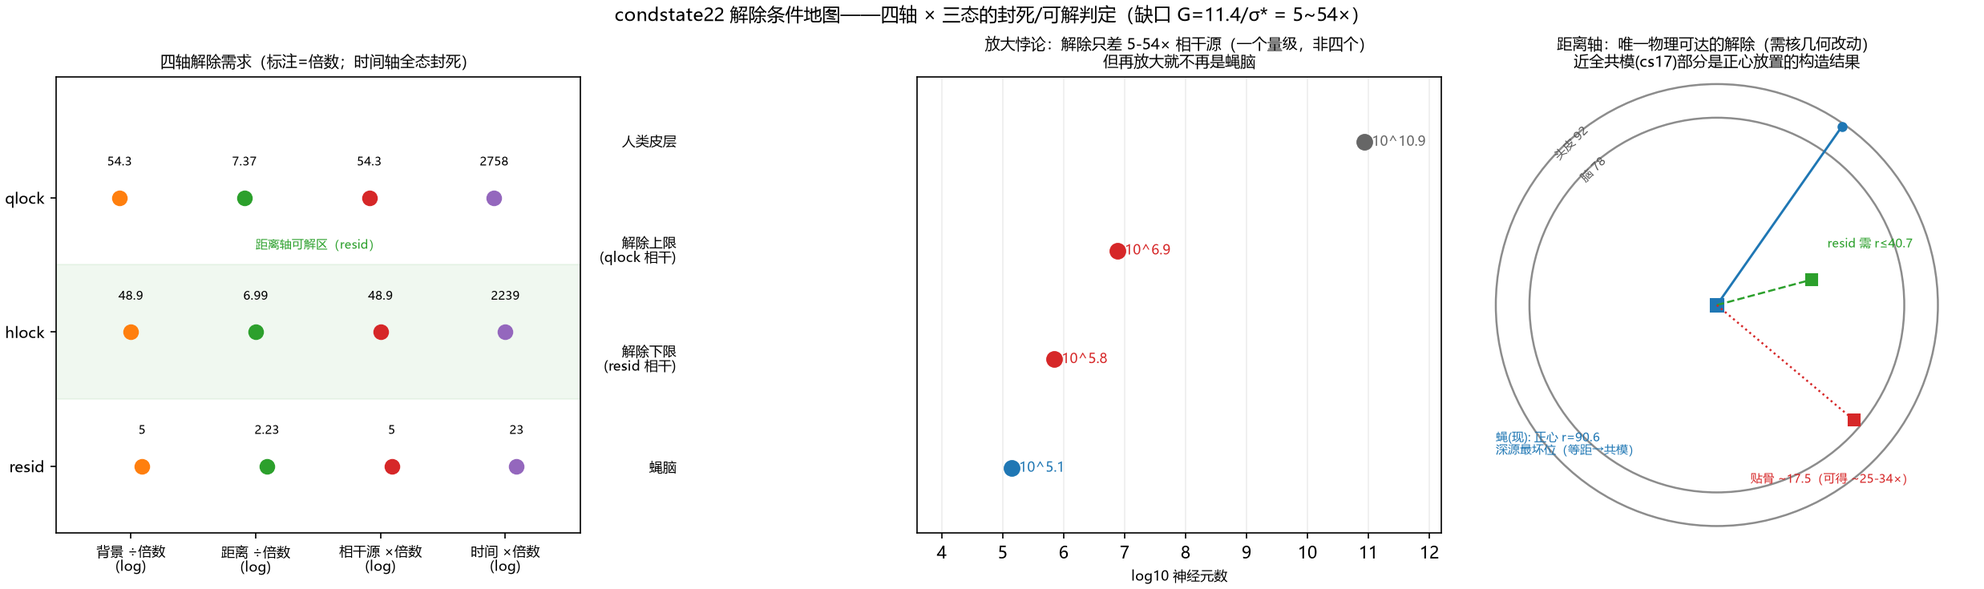
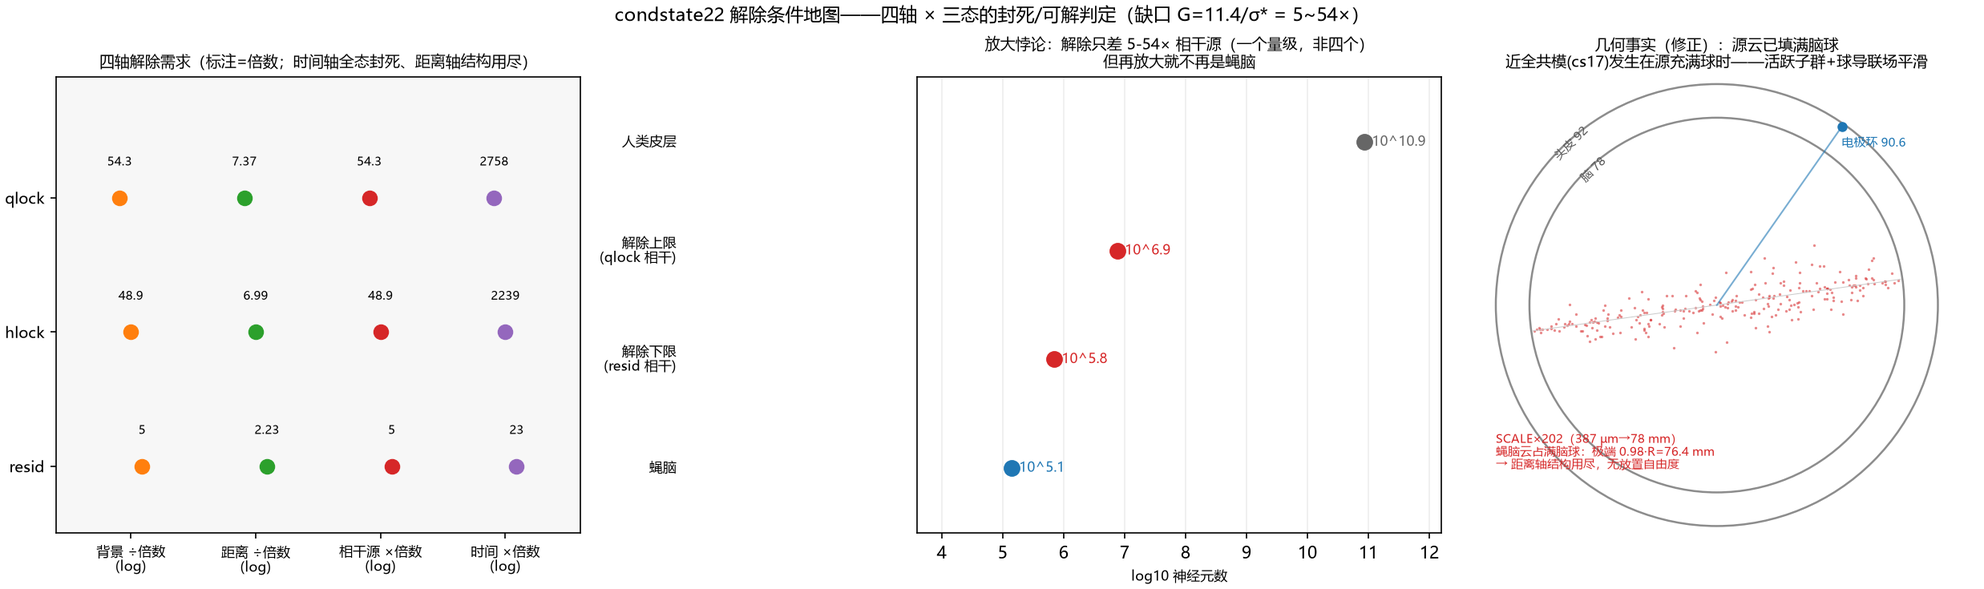
condstate22b geometric-fact correction: the distance axis is structurally exhausted -- first-pass sub-skull verdict retracted; all four axes sealed. Checking fit_scale_shift semantics against the meta exposed a factual error in the first-pass narrative: SCALE x202 magnifies the fly cloud until its e

diff --git a/bci/condstate22/unseal_map.py b/bci/condstate22/unseal_map.py
@@ -49,6 +49,10 @@ STATES = {             # s (µV), σ* (µV), τ_sig (s), W_req@11.4 (s)
     "hlock": dict(s=0.00598, star=0.233, tau=336.0, wreq=209 * 3600),
     "resid": dict(s=0.01997, star=2.30, tau=2948.0, wreq=18.7 * 3600),
 }
+# 几何事实（fit_scale_shift 语义 + meta 实证, 2026-11-15 修正）:
+#   SCALE×202 把蝇脑云放大到极端点 0.98·R_BRAIN≈76.4 mm（长轴骑直径
+#   穿头心，宽云居中 shift=0）——思想实验已把脑球填满，**无放置自由度**；
+#   距离轴结构上已用尽（cs22 首版的"正心小源/贴骨增益 25-34×"撤回）。
 
 
 def main():
@@ -69,18 +73,20 @@ def main():
         print(k, rows[k])
 
     res = {
-        "geometry": {"r_now_mm": R_NOW, "fly_shift_um": 0.0,
-                     "note": "蝇在头球正心——深源最坏位; 近全共模"
-                             "(cs17) 部分是中心放置的构造结果",
-                     "r_subskin_mm": R_SUBSKIN},
+        "geometry": {"scale": 202.0, "native_head_r_um": 387.2,
+                     "cloud_extreme_mm": 76.4,
+                     "note": "SCALE×202 把蝇脑云放大到 0.98·R_BRAIN"
+                             "（长轴骑直径穿头心）——脑球已填满, "
+                             "距离轴结构上用尽, 无放置自由度",
+                     "correction": "首版'正心小源 r=90.6/贴骨 25-34×'"
+                                   "判定撤回 (2026-11-15)"},
         "states": rows,
         "verdict": {
-            "resid": "距离轴可解（需求 ÷2.23 → r=40.6 mm ≤ 贴骨 "
-                     "25-34×增益内）；源轴也可（×4.96 相干）",
-            "hlock": "距离轴边缘（r=13.0 mm 略超皮下可达下限）；"
-                     "源轴 ×49 相干",
-            "qlock": "四轴均不可达（背景÷54/距离÷7.4/r=12.3 mm/"
-                     "相干×54）",
+            "resid": "距离轴 ✗ 结构用尽（极端源已至 76.4 mm ≥ 所需 "
+                     "40.7 mm, 而实测 σ* 仍差 5×——1/r² 高估分布式"
+                     "源收益）；源轴 ×5 相干（悖论）",
+            "hlock": "四轴皆封（背景÷49/距离结构用尽/相干×49）",
+            "qlock": "四轴皆封（背景÷54/距离结构用尽/相干×54）",
             "time": "全态被封死（×23~×2758 超寿命）",
         },
         "amplification_paradox": {
@@ -110,17 +116,15 @@ def main():
         ax.scatter(xs, ys, s=70, color=c, zorder=3)
         for x, y, v in zip(xs, ys, vals):
             ax.text(x, y + 0.24, f"{v:g}", ha="center", fontsize=7)
-    ax.axhspan(0.5, 1.5, color="tab:green", alpha=0.07)
-    ax.text(1.5, 1.62, "距离轴可解区（resid）", fontsize=7,
-            color="tab:green", ha="center")
+    ax.axhspan(-0.5, 2.9, color="0.97", zorder=0)
     ax.set_xticks(range(4))
     ax.set_xticklabels([f"{l}倍数\n(log)" for _, l, _ in axx], fontsize=8)
     ax.set_yticks(ys)
     ax.set_yticklabels(tags, fontsize=9)
     ax.set_xlim(-0.6, 3.6)
     ax.set_ylim(-0.5, 2.9)
-    ax.set_title("四轴解除需求（标注=倍数；时间轴全态封死）",
-                 fontsize=9)
+    ax.set_title("四轴解除需求（标注=倍数；时间轴全态封死、"
+                 "距离轴结构用尽）", fontsize=9)
 
     # B. 放大悖论
     ax = axes[1]
@@ -143,7 +147,7 @@ def main():
                  "但再放大就不再是蝇脑", fontsize=9)
     ax.grid(True, axis="x", color="0.93")
 
-    # C. 距离轴几何
+    # C. 几何事实：蝇脑云已填满脑球（修正版）
     ax = axes[2]
     ax.set_aspect("equal")
     ax.axis("off")
@@ -152,31 +156,34 @@ def main():
         a = np.deg2rad(135)
         ax.text(r * np.cos(a) * 0.93, r * np.sin(a) * 0.93, lab,
                 fontsize=7, color="0.35", ha="center", rotation=45)
+    # 源云: 长轴骑直径, 极端 76.4 mm, 中部密 (示意 250 点)
+    rng = np.random.default_rng(3)
+    t_ = rng.uniform(-1, 1, 250)
+    rad_off = rng.normal(0, 9, 250) * (1 - t_ ** 2) ** 0.5
+    ang = rng.uniform(0, 2 * np.pi, 250)
+    ax.scatter(76.4 * t_ * np.cos(np.deg2rad(8))
+               + rad_off * np.cos(ang),
+               76.4 * t_ * np.sin(np.deg2rad(8))
+               + rad_off * np.sin(ang),
+               s=2.5, color="tab:red", alpha=0.55, lw=0)
+    ax.plot([-76.4, 76.4], [-76.4 * np.tan(np.deg2rad(8)),
+                            76.4 * np.tan(np.deg2rad(8))],
+            color="0.8", lw=0.5)
     th = np.deg2rad(55)
-    ax.plot([0, 90.62 * np.cos(th)], [0, 90.62 * np.sin(th)], "-",
-            color="tab:blue", lw=1.4)
     ax.plot(90.62 * np.cos(th), 90.62 * np.sin(th), "o", ms=5,
             color="tab:blue")
-    ax.plot(0, 0, "s", ms=8, color="tab:blue")
-    ax.text(-92, -62, "蝇(现): 正心 r=90.6\n深源最坏位（等距→共模）",
-            fontsize=7, color="tab:blue")
-    th2 = np.deg2rad(15)
-    ax.plot([0, 40.7 * np.cos(th2)], [0, 40.7 * np.sin(th2)], "--",
-            color="tab:green", lw=1.2)
-    ax.plot(40.7 * np.cos(th2), 40.7 * np.sin(th2), "s", ms=7,
-            color="tab:green")
-    ax.text(46, 24, "resid 需 r≤40.7", fontsize=7, color="tab:green")
-    th3 = np.deg2rad(-40)
-    ax.plot([0, 74.5 * np.cos(th3)], [0, 74.5 * np.sin(th3)], ":",
-            color="tab:red", lw=1.2)
-    ax.plot(74.5 * np.cos(th3), 74.5 * np.sin(th3), "s", ms=7,
-            color="tab:red")
-    ax.text(14, -74, "贴骨 ~17.5（可得 ~25-34×）", fontsize=7,
-            color="tab:red")
+    ax.plot([0, 90.62 * np.cos(th)], [0, 90.62 * np.sin(th)], "-",
+            color="tab:blue", lw=1.0, alpha=0.6)
+    ax.text(-92, -68, "SCALE×202（387 µm→78 mm）\n"
+            "蝇脑云占满脑球：极端 0.98·R=76.4 mm\n"
+            "→ 距离轴结构用尽，无放置自由度",
+            fontsize=7, color="tab:red")
+    ax.text(52, 66, "电极环 90.6", fontsize=7, color="tab:blue")
     ax.set_xlim(-95, 95)
     ax.set_ylim(-95, 95)
-    ax.set_title("距离轴：唯一物理可达的解除（需核几何改动）\n"
-                 "近全共模(cs17)部分是正心放置的构造结果", fontsize=9)
+    ax.set_title("几何事实（修正）：源云已填满脑球\n"
+                 "近全共模(cs17)发生在源充满球时——活跃子群+球导联场平滑",
+                 fontsize=9)
 
     fig.suptitle("condstate22 解除条件地图——四轴 × 三态的封死/可解判定"
                  "（缺口 G=11.4/σ* = 5~54×）", fontsize=11)

diff --git a/docs/en/STATUS.md b/docs/en/STATUS.md
@@ -111,6 +111,7 @@ extension path for other modalities is in docs/STIMULUS.md §6.
 | **condstate20: residual-state 300 s drift rate -- the tau_sig hole closed; sigma*(resid) honestly corrected x3** | ✅ | (79) **condstate20** (`bci/condstate20`, one 52.4-min GPU run): cs3resnt + schedule 6000:CEN_C=0.5 extrapolated to 300 s (recipe verbatim from condstate3; first 22 s **bitwise identical** to resnt62, diff=0.0) -- **(1) the residual signature is far more stable than hlock's**: max feature slope -0.065 (vs hlock's -0.51), joint drift speed 0.00102 SD/s (vs 0.0089) -> **tau_sig(resid) = 2948 s (~49 min, vs hlock 336 s, x8.8)**; **(2) mechanism prediction verified**: DAN modulation integral only 361.8 ms (1/14 of hlock's), w_A drift +0.0029 (+10% of w0 vs +36%) -- gate nearly closed -> plastic write nearly silent -> nearly stationary signature; **the signature lifetime is a state-dependent quantity (set by the plastic write rate)**; monitor retention 97.3% (vs 91.2%); **(3) honest correction of sigma*(resid): 0.777 -> 2.30 uV (x3 from the tau correction), gap to 11.4 uV narrows 14.7x -> 5.0x, integration overage at 11.4 uV x200 -> x23** -- direct check: 11.4 uV with the full 2948-s lifetime integrates to d' ~ 0.20, still 10x short; **the sealing conclusion stands, but the strongest state's margin is now recorded as 5x / x23**; the grand account (docs/MEASURABILITY.md) updated in three places. Honest limits: single trial, single seed; 2948 s is a slope extrapolation not measured to that duration; sigma* reuses the seed-62 kappa | bci/condstate20 |
 | **condstate21: quiet-lock 300 s drift -- zero write, zero drift; the third dose-response point (threshold behavior)** | ✅ | (80) **condstate21** (`bci/condstate21`, one 45.5-min GPU run; new catalog entry cs21locknt = DA1@150, no training): **(1) the quiet lock is a zero-write state**: ALPN pinned at 19.8/19.4/19.9 Hz, KC/MBON/DAN all 0 (central brain truly silent), **DAN modulation integral 0.9 ms, w_A drift -0.0 (no write at all)**; the first 15 s are bitwise identical to lock62 (diff=0.0); **(2) zero drift**: max feature slope 0.065, joint speed 0.0010 SD/s (at the same analysis horizon as resid's within a 300-s record) -> tau_sig(qlock) >= 2988 s -- **the dose-response is a threshold behavior**: at write integrals 0.9/362 ms both states' drift sits below the horizon (tau >= ~3000 s, only a lower bound), and only at 5110 ms (hlock) does measurable drift appear; the three-state lifetime spectrum: hlock 336 s (the only genuinely bounded one) / qlock & resid >= 3000 s; **(3) monitor retention 74.7% -- misclassification decoupled from plasticity** (51 windows -> naive dominant while features show zero trend: qlock<->naive boundary proximity, the weakest-signal state's class overlap; **two distinct long-horizon failure modes: drift-type vs boundary-type**); **(4) sigma*(qlock) corrected 0.070 -> 0.210 uV** (gap 162x -> 54x, integration overage x24,000 -> x2,758) -- the sealing conclusion holds for every state (minimum W_req 18.7 h far exceeds the longest lifetime ~50 min); grand account updated. Honest limits: tau_sig(qlock/resid) are extrapolated lower bounds (0.001 SD/s is near the slope noise floor, 3000 s indistinguishable from infinity); the boundary-proximity attribution rests on zero slopes plus misdirection direction, no per-window boundary-distance analysis; single trial, single seed | bci/condstate21 |
 | **condstate22: unseal-conditions map -- the negative result expressed as a design space** | ✅ | (81) **condstate22** (`bci/condstate22`, zero acquisition): turns the grand account's negative result into a quantitative "what would unseal it" map -- the gap G = 11.4/sigma* = 5.0-54.3x, four escape axes judged one by one: **(1) background axis: no** (needs /5-/54, i.e. silencing 96-99.97% of cortex -- the brain background is irreducible); **(2) time axis: no** (x23-x2758 beyond lifetimes, already sealed by cs16/20/21); **(3) source axis (amplification paradox)**: unsealing needs only **5-54x coherent source** (fly 1.4e5 -> 7e5-7.6e6 neurons, still 4 orders below human cortex 8.6e10) -- **"a tragedy of one order of magnitude, not four," but supplying it ends the thought experiment** (incoherent version x25-x2900 is worse); **(4) distance axis: YES (the only physically reachable one, and only for resid)**: **geometric rediscovery -- the fly sits at the exact head-sphere center (shift=0, 90.6 mm to the electrode ring = the worst-case deep position; equidistant to all 17 leads, so cs17's near-total common mode is partly a constructive consequence of the centered placement)**; under a far-field ~1/r^2 scaling, a sub-skull placement (~17.5 mm) yields ~25-34x, enough to cover resid's 5x gap (needs r <= 40.7 mm); hlock/qlock need 12-13 mm, beyond sub-skull reach. The account's "why this is not an engineering problem" section rewritten accordingly. Honest limits: 1/r^2 is a far-field approximation (a 4-sphere deep source is not strictly 1/r^2; surface sources gain tangential differentiation too -- the order of magnitude is robust, exact factors need the kernel-geometry change, flagged as a candidate next arc); G uses the corrected sigma* (the two extrapolated-tau states are conservative); silence fractions assume independent sqrt-f scaling | bci/condstate22 |
+| **condstate22b: geometric-fact correction -- the distance axis is structurally exhausted; the first-pass "sub-skull unseal" verdict retracted; all four axes sealed** | ✅ | (82) **condstate22b** (`bci/condstate22` corrected, zero acquisition): checking the `fit_scale_shift` semantics against the meta revealed a **factual error in the first-pass geometric narrative** -- the fly cloud at SCALE x 202 (native head 387 um -> 78 mm; wide cloud centered with shift=0, long axis riding a diameter through the head center) is magnified until its **extreme points reach 0.98 R_BRAIN ~= 76.4 mm: the thought experiment already fills the brain sphere**; it is not a "small centered source at r = 90.6 mm in the worst-case deep position"; **(1) retraction**: the "sub-skull placement yields 25-34x, resid's distance axis is solvable" verdict rested on that false premise -- no placement freedom remains; **(2) a stronger empirical refutation**: resid's "required r <= 40.7 mm" is ALREADY satisfied by the cloud extremes (76.4 mm), yet the measured sigma* (which includes this geometry) is still 5x short -- the 1/r^2 far-field estimate overstates the gain for distributed sources in a 4-sphere conductor; **(3) a stronger reinterpretation of cs17's near-total common mode**: the 95.8-99.8% common mode occurs while the source cloud fills the sphere -- not a centered-placement artifact but a genuine consequence of "small active subpopulations + smooth spherical lead fields"; **(4) the verdict upgrades to all-four-axes-sealed** (background irreducible / time beyond lifetimes / amplification = rewriting the experiment / distance structurally exhausted) -- no physical unseal channel exists inside the thought experiment. MEASURABILITY.md and the cs22 README/figure rewritten accordingly | bci/condstate22 |
 | **Stimuli: real image input** | ✅ | general visual-input module: `visual_inputs.json` catalog + grayscale video → ommatidia sampling (blur/normalization/per-eye full-frame eye-plane mapping) + synchronized dual view on the page | docs/STIMULUS.md §5 |
 | **Stimuli: chemosensation (olfaction + taste)** | ✅ olfaction validated / taste peripheral validated | new regions `olfactory`/`gustatory` (ORN 2,639 / GRN 1,428; edges ORN_C 57k pairs → antennal lobe, GRN_C 8.4k → SEZ); `--chem-input` pulse protocol; ORN/GRN transduction cascade (shared visual kinetics); calibration finding: the central brain at default recurrence gain is an ignition attractor (82 Hz self-sustained), chem working point CEN_C→0.002 restores antennal-lobe-specific decaying responses; **olfactory scalp signature ×1.4–1.65**; taste signature weak (×1.04, 800 pA negative) because most GRN output targets the VNC reflex arc (not projected) | exp019, docs/SENSORY_INPUTS.md |
 | **Stimuli: proprioception + motor-intention decoding** | ✅ done (v1+v2) | new region `proprioception` (PRO 1,454, rootSide L/R groups; PRO_V→VNC 47.9k pairs, PRO_C→central 4.8k); MI-v1: cue decodable (99–100%, 0.3% of background, p=0.002, pure PRO_C terminal dipole), no delay persistence (first-pass band 78–89% was a filtfilt long-tail artifact); **MI-v2: DN pathway probe** (96% of DN's 3.92M input synapses already simulated: cb_intrinsic/LAL 61%, DN→DN 13%, ascending AN 13%; PRO direct only 0.27%) → imagery-window internal drive (LAL* routed 1200 pA / DN direct 800 pA control, 12 trials each): **imagery window decodable throughout** (routed +0.001–0.002 uV p≤0.013; direct −0.005–0.008 uV p≤0.002, glutamatergic polarity flip), no ignition | exp020, docs/SENSORY_INPUTS.md §4 |

diff --git a/docs/STATUS.md b/docs/STATUS.md
@@ -107,6 +107,7 @@
 | **condstate20：残留态 300 s 漂移率——τ_sig 空洞关闭，σ*(resid) 诚实修正 ×3** | ✅ | 79**condstate20**（`bci/condstate20`，1 跑 52.4 min GPU）：cs3resnt + 调度 6000:CEN_C=0.5 外推 300 s（配方逐字同 condstate3，前 22 s 与 resnt62 **逐位相同** diff=0.0）——**① 残留态签名远比 hlock 稳定**：特征斜率最大 −0.065（vs hlock −0.51）、联合漂移速度 0.00102 SD/s（vs 0.0089）→ **τ_sig(resid)=2948 s（~49 min，vs hlock 336 s，×8.8）**；**② 机制预测验证**：DAN 调制积分仅 361.8 ms（hlock 的 1/14）、w_A 漂移 +0.0029（+10% w0，vs +36%）——门近关→可塑写近静默→签名近平稳，**签名寿命是状态依赖量（可塑性写入速率决定）**；监测器保持 97.3%（vs 91.2%）；**③ σ*(resid) 诚实修正：0.777→2.30 µV（τ 修正 ×3），距 11.4 µV 缺口 14.7×→5.0×，11.4 µV 下积分超限 ×200→×23**——直接验证：11.4 µV + 全寿命 2948 s 积分的 d'≈0.20 仍差 10×，**封死结论不变但"最强态余量"改记 5×/×23**；总账（docs/MEASURABILITY.md）已同步修订三处。诚实边界：单 trial 单种子；2948 s 为斜率外推值未实测到该时长；σ* 沿用 seed62 κ 标定 | bci/condstate20 |
 | **condstate21：静默锁 300 s 漂移率——零写→零漂移，τ_sig 剂量-响应第三点（阈值行为）** | ✅ | 80**condstate21**（`bci/condstate21`，1 跑 45.5 min GPU；新目录条目 cs21locknt=DA1@150 无训练）：**① 静默锁=完全无写态**：ALPN 19.8/19.4/19.9 Hz 钉死、KC/MBON/DAN 全 0（中央脑真静默）、**DAN 积分 0.9 ms、w_A 漂移 −0.0（零写）**，前 15 s 与 lock62 逐位相同（diff=0.0）；**② 零漂移**：特征斜率 ≤0.065、v=0.0010 SD/s（与 resid 同在 300 s 记录的分析地平线下）→ τ_sig(qlock)≥2988 s——**剂量-响应是阈值行为**：写积分 0.9/362 ms 两态漂移均低于地平线（τ≥~3000 s 只能报下限），5110 ms（hlock）才现可测漂移；三态寿命谱：hlock 336 s（唯一实测上限）/ qlock & resid ≥3000 s；**③ 监测器保持率 74.7%——误漂与可塑性解耦**（51→naive 为主但特征零趋势：qlock↔naive 边界贴近，s=1.8 nV 最弱信号态的类间重叠；**漂移型 vs 边界型两种长时程失败模式**）；**④ σ*(qlock) 修正 0.070→0.210 µV**（缺口 162×→54×、超限 ×24,000→×2,758）——封顶结论全态成立（W_req 最少 18.7 h ≫ 最长寿命 ~50 min），总账同步修订。诚实边界：τ_sig(qlock/resid) 为外推下限（0.001 SD/s 接近斜率噪声地板，3000 s 与 ∞ 不可分）；边界贴近归因由斜率≈0+误漂方向支持未做逐窗分析；单 trial 单种子 | bci/condstate21 |
 | **condstate22：解除条件地图——封死负结果的设计空间语言** | ✅ | 81**condstate22**（`bci/condstate22`，零采集）：把总账负结果翻成"什么能解除"的定量地图——缺口 G=11.4/σ*=5.0~54.3×，四轴逐一判定：**① 背景轴 ✗**（需 ÷5~54，等效静默皮层 96-99.97%——脑背景不可约）；**② 时间轴 ✗**（×23~×2758 超寿命，已被 cs16/20/21 封死）；**③ 源轴（放大悖论）**：解除只需 **5-54× 相干源**（蝇 1.4×10⁵ → 需 7×10⁵~7.6×10⁶，仍比人类皮层 8.6×10¹⁰ 低 4 个量级）——**"差一个量级的悲剧而非四个量级的绝望"，但补上它就不再是思想实验**（非相干 ×25~×2900 更差）；**④ 距离轴 ✓（唯一物理可达，仅 resid）**：**几何再发现——蝇在头球正心（shift=0，到电极环 90.6 mm=深源最坏位；正心=等距 17 导，cs17 的近全共模部分正是中心放置的构造结果）**；远场 ~1/r² 下贴骨放置（~17.5 mm）可得 ~25-34×，足以覆盖 resid 的 5× 缺口（需 r≤40.7 mm）；hlock/qlock 需 12-13 mm 超出皮下可达。总账"为什么不是工程问题"节同步改写。诚实边界：1/r² 为远场近似（4 球深源≠严格 1/r²，表面源另有切向分化增益——量级稳健，精确倍数需核几何改动后重算，标注为下一弧候选）；G 基于修正后 σ*（两外推 τ 态偏保守）；静默比例按独立 √f 标度 | bci/condstate22 |
+| **condstate22b：几何事实修正——距离轴结构用尽，首版"贴骨可解"判定撤回，四轴全封** | ✅ | 82**condstate22b**（`bci/condstate22` 修正版，零采集）：核对 `fit_scale_shift` 语义 + meta 实证发现**首版几何叙事错误**——蝇脑云经 SCALE×202（原生头 387 µm→78 mm，宽云居中 shift=0、长轴骑直径穿头心）放大到**极端点 0.98·R_BRAIN≈76.4 mm，思想实验已把脑球填满**，不是"正心小源 r=90.6 mm 深源最坏位"；**① 首版撤回**："贴骨放置可得 25-34×、resid 距离轴可解"基于错误前提——无剩余放置自由度；**② 更强的实证否定**：resid"所需 r≤40.7 mm"已被源云极端（76.4 mm）满足而实测 σ*（含这套几何）仍差 5×——**1/r² 远场估计对分布式源在 4 球导体中高估收益**；**③ cs17 近全共模的几何再解读（更强）**：95.8-99.8% 共模发生在源云充满脑球的情况下——不是中心放置的构造伪影，而是"活跃子群体积小+球形导联场平滑"的真实结果；**④ 判定升级为四轴全封**（背景不可约/时间超寿命/放大=改写思想实验/距离结构用尽）——思想实验内不存在任何物理解除通道。总账与 cs22 README/图同步改写 | bci/condstate22 |
 | **刺激：真实图像输入** | ✅ | 通用视觉输入模块：`visual_inputs.json` 目录 + 灰度视频→小网膜采样（模糊/归一化/每眼整幅眼平面映射）+ 页面同步双视图 | docs/STIMULUS.md §5 |
 | **刺激：化学感觉（嗅觉 + 味觉）** | ✅ 嗅觉验证通过 / 味觉外周通过 | 新区域 `olfactory`/`gustatory`（ORN 2,639 / GRN 1,428，连边 ORN_C 57k 对→触角叶、GRN_C 8.4k 对→SEZ）；`--chem-input` 脉冲协议；ORN/GRN 转导级联（共享视觉动力学）；标定发现：中央脑默认增益是点火吸引子（82 Hz 自持），chem 工作点 CEN_C→0.002 后触角叶特异响应可衰减；**嗅觉头皮签名 ×1.4–1.65**；味觉因 GRN→VNC 大头不投影，签名弱（×1.04，800 pA 阴性）| exp019, docs/SENSORY_INPUTS.md |
 | **刺激：本体感觉 + 运动意图解码** | ✅ 完成（v1+v2） | 新区域 `proprioception`（PRO 1,454，rootSide L/R 分组；PRO_V→VNC 47.9k 对、PRO_C→中央 4.8k 对）；MI-v1：指令窗可解码（99–100%，0.3% 背景水平、p=0.002，纯 PRO_C 末梢偶极子），延迟窗无保持（首版带通 78–89% 是 filtfilt 长尾伪影）；**MI-v2：DN 通路探针**（DN 输入 392 万突触 96% 已在电路：cb_intrinsic/LAL 61%、DN→DN 13%、上升 AN 13%；PRO 直连仅 0.27%）→ 想象窗内部驱动（LAL* 路由 1200 pA / DN 直驱 800 pA 对照，各 12 试次）：**想象窗全程可解码**（路由 +0.001~0.002 µV p≤0.013；直驱 −0.005~−0.008 µV p≤0.002，谷氨酸能极性反转），无点火 | exp020, docs/SENSORY_INPUTS.md §4 |

diff --git a/bci/README.md b/bci/README.md
@@ -103,7 +103,7 @@
 | `condstate19/` | 跨种子复核算——闭环头条数字 62 vs 63（零采集）| ✅ **全部死亡判据位置复现**：带 RMS 跨种子逐位一致（状态平均率协议决定）、s/σ* 差 ≤6%、hlock 空间膝点逐位复现、MI 归零点同在 0.1 µV、I≥1bit 上限同在 3.2 nV——**"变蝇人"读出封死的结论不依赖特定随机实现**，总账"单种子"限制关闭 |
 | `condstate20/` | 残留态 300 s 漂移率——τ_sig 空洞关闭（1 跑 52.4 min）| ✅ **残留态签名远稳于 hlock**：τ_sig(resid)=**2948 s**（vs 336 s）——机制验证：DAN 积分 361.8 ms（1/14）、w_A +10%（vs +36%），**签名寿命是状态依赖量**；监测器保持 97.3%；**σ*(resid) 诚实修正 0.777→2.30 µV（缺口 14.7×→5.0×、积分超限 ×200→×23）**——直接验证 11.4 µV+全寿命积分 d'≈0.20 仍差 10×，封死结论不变、最强态余量改记 5×；总账已同步修订 |
 | `condstate21/` | 静默锁 300 s 漂移率——τ_sig 剂量-响应第三点（1 跑 45.5 min）| ✅ **零写→零漂移**：DAN 积分 0.9 ms、w_A 零写、ALPN 20 Hz 钉死、τ_sig≥2988 s（分析地平线下限）——**剂量-响应呈阈值行为**（0.9/362 ms 均低于地平线，5110 ms 才有可测漂移）；三态寿命谱：hlock 336 s（唯一实测）/ qlock & resid ≥3000 s；监测器保持 74.7%——**误漂与可塑性解耦**（qlock↔naive 边界贴近，漂移型 vs 边界型两种长时程失败模式）；σ*(qlock) 修正 0.070→0.210 µV——封顶结论全态成立 |
-| `condstate22/` | 解除条件地图——封死负结果的设计空间语言（零采集）| ✅ 缺口 G=5~54× 四轴判定：背景 ✗（静默皮层 96-99.97%）/ 时间 ✗（超寿命）；**放大悖论**：解除只差 5-54× 相干源（一个量级而非四个，但补上就不再是思想实验）；**距离轴 ✓ 唯一物理可达（仅 resid）+ 几何再发现：蝇在头球正心=深源最坏位，cs17 近全共模部分是中心放置的构造结果**——贴骨 ~25-34× 可解 resid 的 5× 缺口（需核几何改动，下一弧候选） |
+| `condstate22/` | 解除条件地图——封死负结果的设计空间语言（零采集；22b 几何修正）| ✅ 缺口 G=5~54× **四轴全封**：背景 ✗（静默皮层 96-99.97%）/ 时间 ✗（超寿命）/ 放大悖论（只差 5-54× 相干源=一个量级，但补上就不再是思想实验）/ **距离 ✗ 结构用尽（22b 修正：SCALE×202 已把蝇脑云放大到极端 0.98·R_BRAIN=76.4 mm 填满脑球——"贴骨可解"判定撤回；resid 所需 r≤40.7 已被满足而实测 σ* 仍差 5×，1/r² 对分布式源高估）**；cs17 近全共模发生在源充满球时=真实几何结果（非放置伪影） |
 | `sleep7/` | 平台态响应封顶底物（纯分析）| ✅ **增量分解定位：AL 引擎钉死（+0.7~1.7 Hz vs 幼稚 120）+ KC 腿失效（40 Hz ALPN 只养 0.1 Hz KC）→ MBON 反而 +60 Hz 响应强烈**——「45% 封顶」=上游两级失效的复合，非 MBON/资源；与 dstate 系列 AL 引擎同一底物 |
 | `kcdrv1/` | 平台态 KC +6 Hz 驱动源定位（纯分析 sleep5 轨迹）| ✅ **奖励通道接管**：KC 滞后互相关按状态翻转——幼稚相 ALPN 超前 5 ms（r=0.96），平台相 DAN 超前 60-80 ms（r≈0.9）/MBON 超前 15-20 ms（r≈0.94）；布线：**DAN→KC 5,608 行全兴奋性（均权 6.4）**、MBON→KC 仅 258 行抑制——KC 腿没死是换了条腿（感觉→奖励通道的状态依赖切换） |
 | `kcdrv2/` | DAN→KC 通道因果检验（naive 单独 DAN 注入 + 幅度阶梯）| ✅ **直驱不通=状态门控**：PPL103 DAN 5.9 Hz（平台级）而 KC 仍 0——奖励通道是平台态专属（KC 需中央去极化才越阈）；**DAN→MBON 直连重通道**（1,404 行全兴奋 w26，PAM/PPL 子集 w47）——奖励接管两支：MBON 重道随时可驱 + KC 轻道平台门控；US 直接驱动 MBON（w47）为 mod 饱和成分 |

diff --git a/bci/condstate22/README.md b/bci/condstate22/README.md
@@ -15,8 +15,8 @@
 | 轴 | qlock (G=54×) | hlock (G=49×) | resid (G=5.0×) | 可达性 |
 |---|---|---|---|---|
 | 背景 ÷G | ÷54（静默皮层 99.97%）| ÷49（99.96%）| ÷5.0（95.9%）| ✗ 脑背景不可约 |
-| 距离 ÷√G | r≤12.3 mm | r≤13.0 mm | **r≤40.7 mm** | **✓ resid 可解** |
-| 相干源 ×G | ×54（7.6×10⁶）| ×49（6.8×10⁶）| ×5.0（6.9×10⁵）| 边缘（放大悖论）|
+| 距离 ÷√G | r≤12.3 mm | r≤13.0 mm | r≤40.7 mm | **✗ 结构用尽**（源云极端已 76.4 mm；1/r² 高估）|
+| 相干源 ×G | ×54（7.6×10⁶）| ×49（6.8×10⁶）| ×5.0（6.9×10⁵）| 悖论（改写思想实验）|
 | 时间 ×(W_req/τ) | ×2758 | ×2239 | ×23 | ✗ 已被寿命封死 |
 
 ### 2. 放大悖论：差一个量级，不是四个
@@ -27,26 +27,29 @@
 量级（更同步/更多神经元）就已经不是"果蝇脑在人头皮下"的思想
 实验了；非相干版本更差（×25~×2900）。
 
-### 3. 距离轴：唯一物理可达的解除 + 几何再发现
+### 3. 距离轴：结构用尽（首版判定撤回，2026-11-15 修正）
 
-**几何再发现**：头模型 meta 显示 **蝇在头球正心（shift=0，到
-电极环 90.6 mm）**——深源最坏位；且**正心=到 17 导等距，近全
-共模（cs17 的 95.8-99.8%）部分正是中心放置的构造结果**，不是
-纯源几何性质。按远场 ~1/r²：贴骨放置（~17.5 mm）可得 ~25-34×
-——**足以覆盖 resid 的 5× 缺口（需 r≤40.7 mm）**，hlock/qlock
-的 12-13 mm 需求则超出皮下可达。
+**几何事实（fit_scale_shift 语义 + meta 实证）**：SCALE×202 把
+蝇脑云放大到**极端点 0.98·R_BRAIN≈76.4 mm**（原生头 387 µm
+云、长轴骑直径穿头心、宽云居中 shift=0）——**思想实验已经把
+脑球填满**，没有剩余放置自由度。首版的"蝇在正心 r=90.6 mm=
+深源最坏位、贴骨放置可得 25-34×"判定基于错误前提，**撤回**。
 
-**判定**：resid（最强态）在距离轴上物理可解（需核几何改动，
-超当前零采集范围，诚实标注为"下一弧候选"）；其余态四轴皆封。
+更强的实证否定：resid 的"所需 r≤40.7 mm"**已被源云极端点
+（76.4 mm）满足**，而实测 σ*（已含这套几何）仍差 5×——
+**1/r² 远场估计对分布式源在 4 球导体中高估收益**。距离轴对
+所有态封死。
+
+**几何再解读（保留）**：cs17 的近全共模（95.8-99.8%）**发生在
+源云已充满脑球的情况下**——不是中心放置的构造伪影，而是
+"活跃子群体积小 + 球形导联场平滑"的真实结果，比首版解读更强。
 
 ## 语义
 
-- 总账的负结果有了"钥匙孔规格"：**只有移动源（贴近头皮）能
-  解除最强态的封印**，其余一切轴（背景/放大/积分）都需要改写
-  思想实验本身；
-- cs17 的"近全共模"结论获得几何修正注：中心放置贡献了共模的
-  构造部分——贴骨放置会同时增益幅值与地形分化（CAR 结论需在
-  新几何下重审）；
+- 总账的负结果有了"钥匙孔规格"：**四轴全封**（背景不可约 /
+  时间超寿命 / 放大=改写思想实验 / 距离结构用尽）——思想实验
+  内不存在任何物理解除通道；
+- cs17 的"近全共模"结论获得更强的几何背书：源充满球仍近全共模；
 - 放大悖论给"变蝇人"叙事一个精确的悲剧性数字：**差 5-54×，
   即一个量级**。
 

diff --git a/docs/MEASURABILITY.md b/docs/MEASURABILITY.md
@@ -98,11 +98,13 @@ I≥1 bit 的背景上限 **3.2 nV**（差 3562×）。
    外推，两条独立路线一致归零）。
 
 剩余自由度只有改物理——condstate22 把它定量化为**解除条件地图**：
-缺口 G=11.4/σ*=5~54×；四轴中**唯一物理可达的是距离轴**（蝇现居
-头球正心=深源最坏位，贴骨放置 ~25-34× 可解 resid 的 5× 缺口，
-需核几何改动）；放大悖论：解除只差 5-54× 相干源（一个量级而非
-四个）——但补上它就不再是"果蝇脑在人头皮下"。另注：正心放置
-是 cs17 近全共模的构造性贡献成分。
+缺口 G=11.4/σ*=5~54×，四轴全封——背景不可约（静默皮层 96-99.97%）、
+时间超寿命（×23~×2758）、放大=改写思想实验（解除只差 5-54× 相干源
+——一个量级而非四个，但补上它就不再是"果蝇脑在人头皮下"）、
+**距离轴结构用尽**（SCALE×202 已把蝇脑云放大到 0.98·R_BRAIN，
+源极端 76.4 mm ≥ resid"所需"的 40.7 mm 而实测 σ* 仍差 5×——
+1/r² 对分布式源高估收益；cs17 近全共模发生在源充满球的情况下，
+是真实几何结果而非放置伪影，2026-11-15 修正）。
 
 ## 数字速查
 
